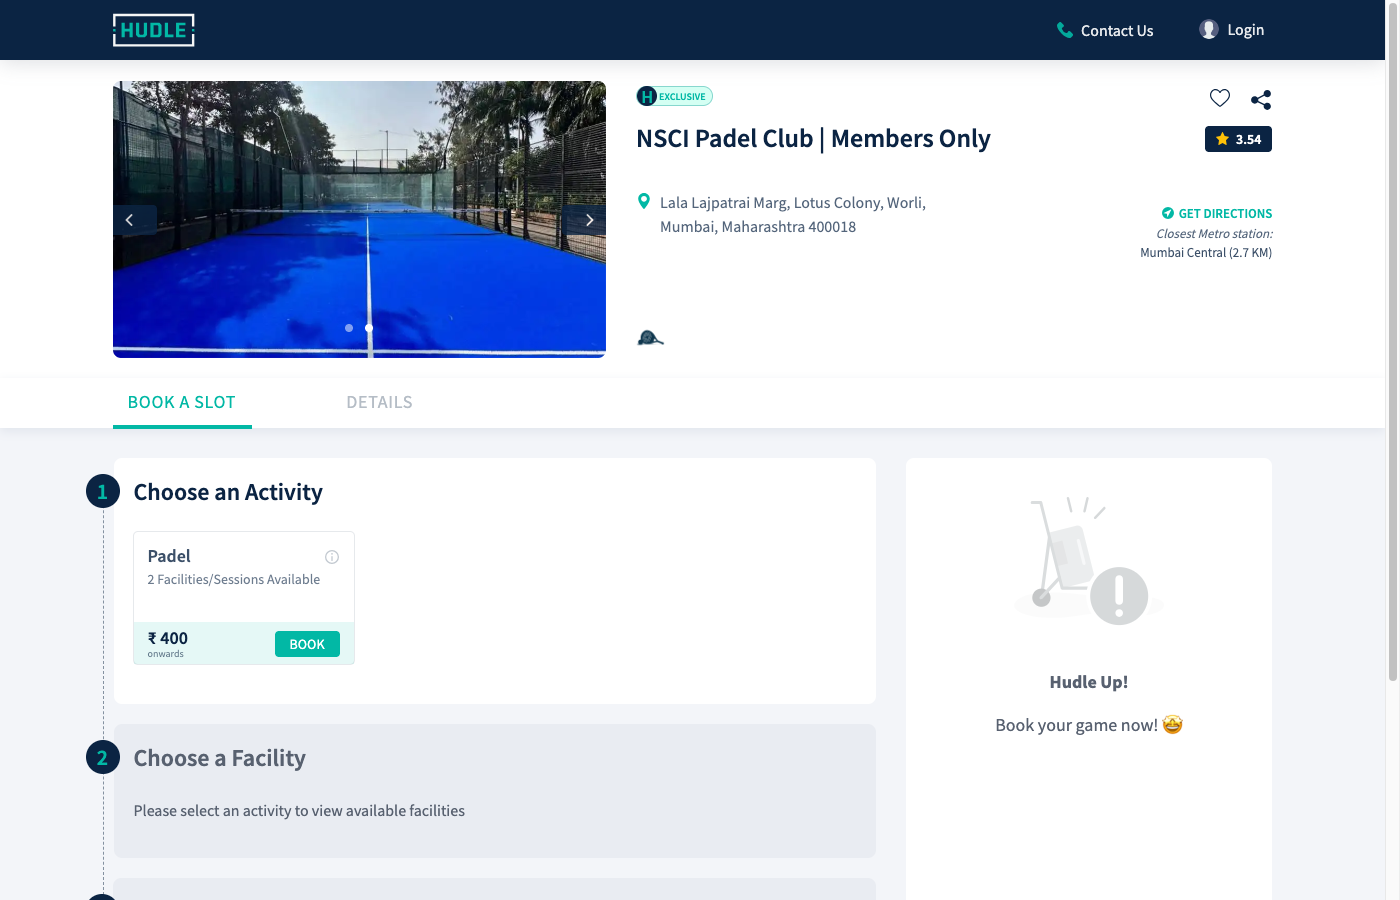
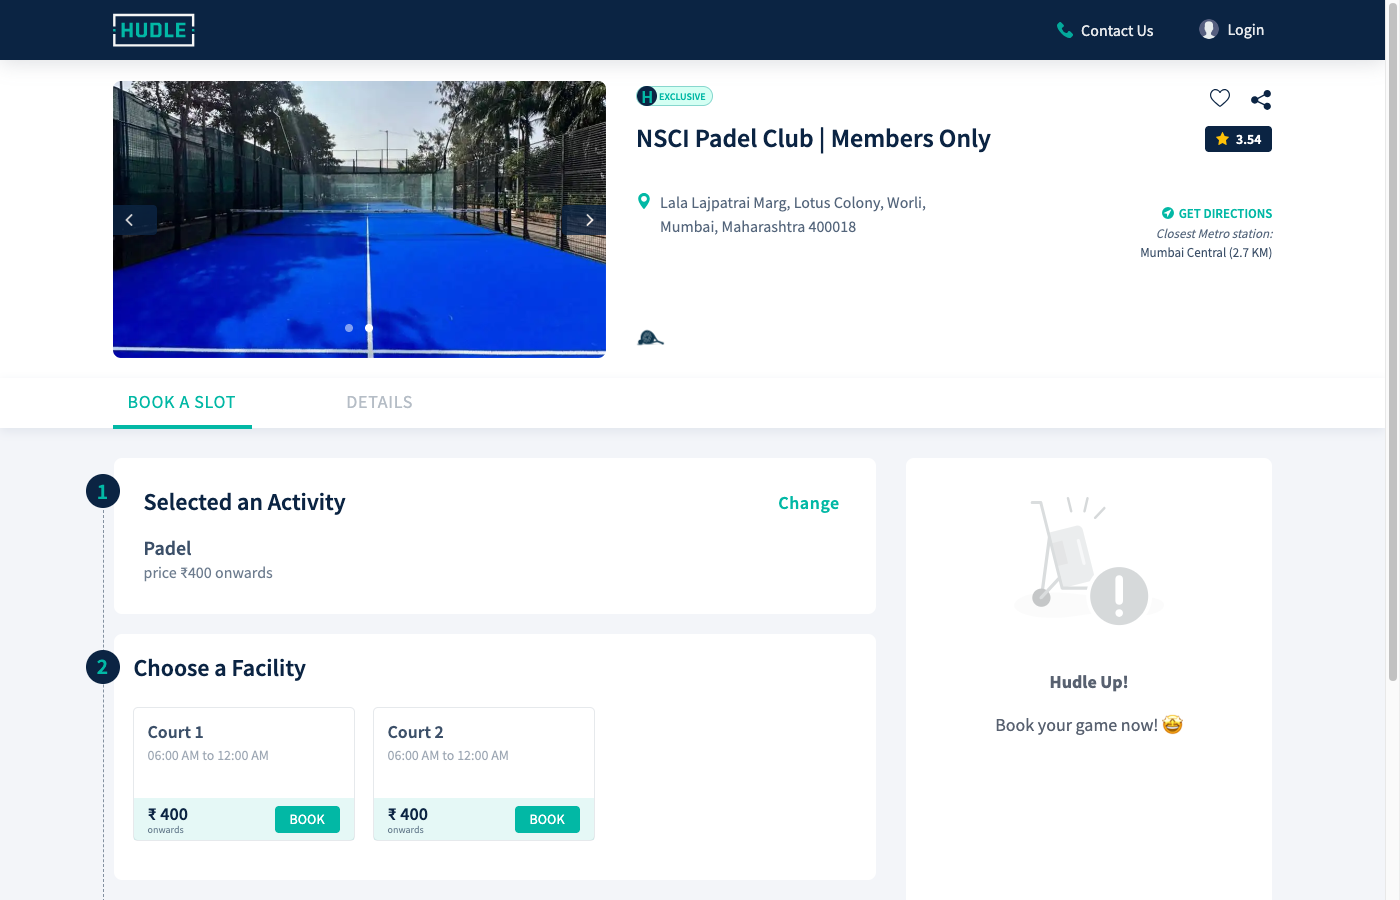
Update nsci_autobook_tokens.py with tab selection and robust element clickers

diff --git a/nsci_autobook_tokens.py b/nsci_autobook_tokens.py
@@ -78,14 +78,25 @@ def run_zero_intervention_token_autobooker():
         page.goto(NSCI_VENUE_URL, wait_until="domcontentloaded", timeout=15000)
         page.wait_for_timeout(2000)
 
+        # Step 0: Open Slot Picker if needed
+        try:
+            book_a_slot_btn = page.query_selector("text='BOOK A SLOT', text='Slots'")
+            if book_a_slot_btn:
+                book_a_slot_btn.click()
+                print("  └ Clicked 'BOOK A SLOT' tab!")
+                page.wait_for_timeout(1500)
+        except Exception as e:
+            print("Book a slot tab note:", e)
+
         # Step 1: Select Target Date
         print(f"👉 Selecting Target Date ({target_date_str})...")
         try:
-            date_pills = page.query_selector_all(".date-item, .date-pill, button")
-            for pill in date_pills:
-                if target_date_str in (pill.get_attribute("data-date") or "") or target_date_str in (pill.inner_text() or ""):
-                    pill.click()
-                    print(f"  └ Date pill clicked for {target_date_str}")
+            all_els = page.query_selector_all("button, div, span")
+            for el in all_els:
+                txt = el.inner_text().strip()
+                if target_date_str in txt or "25 Aug" in txt or "Tue, 25" in txt:
+                    el.click()
+                    print(f"  └ Clicked date element: {txt[:30]}")
                     break
         except Exception as e:
             print("Date selection note:", e)
@@ -94,16 +105,16 @@ def run_zero_intervention_token_autobooker():
 
         # Step 2: Select 8:00 PM - 10:00 PM slots
         print("👉 Selecting 8:00 PM - 10:00 PM Slots...")
-        slot_times = ["08:00 PM", "08:30 PM", "09:00 PM", "09:30 PM", "20:00", "20:30", "21:00", "21:30"]
+        slot_targets = ["08:00 PM", "08:30 PM", "09:00 PM", "09:30 PM", "20:00", "20:30", "21:00", "21:30"]
         
         selected_count = 0
         try:
-            buttons = page.query_selector_all("button, .slot-btn, .slot-card, div[role='button']")
-            for b in buttons:
-                txt = b.inner_text()
-                for st in slot_times:
-                    if st in txt and "booked" not in txt.lower():
-                        b.click()
+            elements = page.query_selector_all("button, div, span, p")
+            for el in elements:
+                txt = el.inner_text().strip()
+                for st in slot_targets:
+                    if st in txt and ("₹" in txt or "400" in txt or "PM" in txt) and "booked" not in txt.lower():
+                        el.click()
                         selected_count += 1
                         print(f"  └ Selected slot block: {st}")
                         page.wait_for_timeout(200)
@@ -116,7 +127,7 @@ def run_zero_intervention_token_autobooker():
         # Step 3: Click Proceed to Checkout
         print("👉 Clicking Proceed to Checkout...")
         try:
-            checkout_selectors = ["text='Book'", "text='Proceed'", "text='Checkout'", "button:has-text('Book')", "button:has-text('Proceed')"]
+            checkout_selectors = ["text='BOOK'", "text='Book'", "text='Proceed'", "text='Checkout'", "button:has-text('BOOK')"]
             for sel in checkout_selectors:
                 el = page.query_selector(sel)
                 if el:
